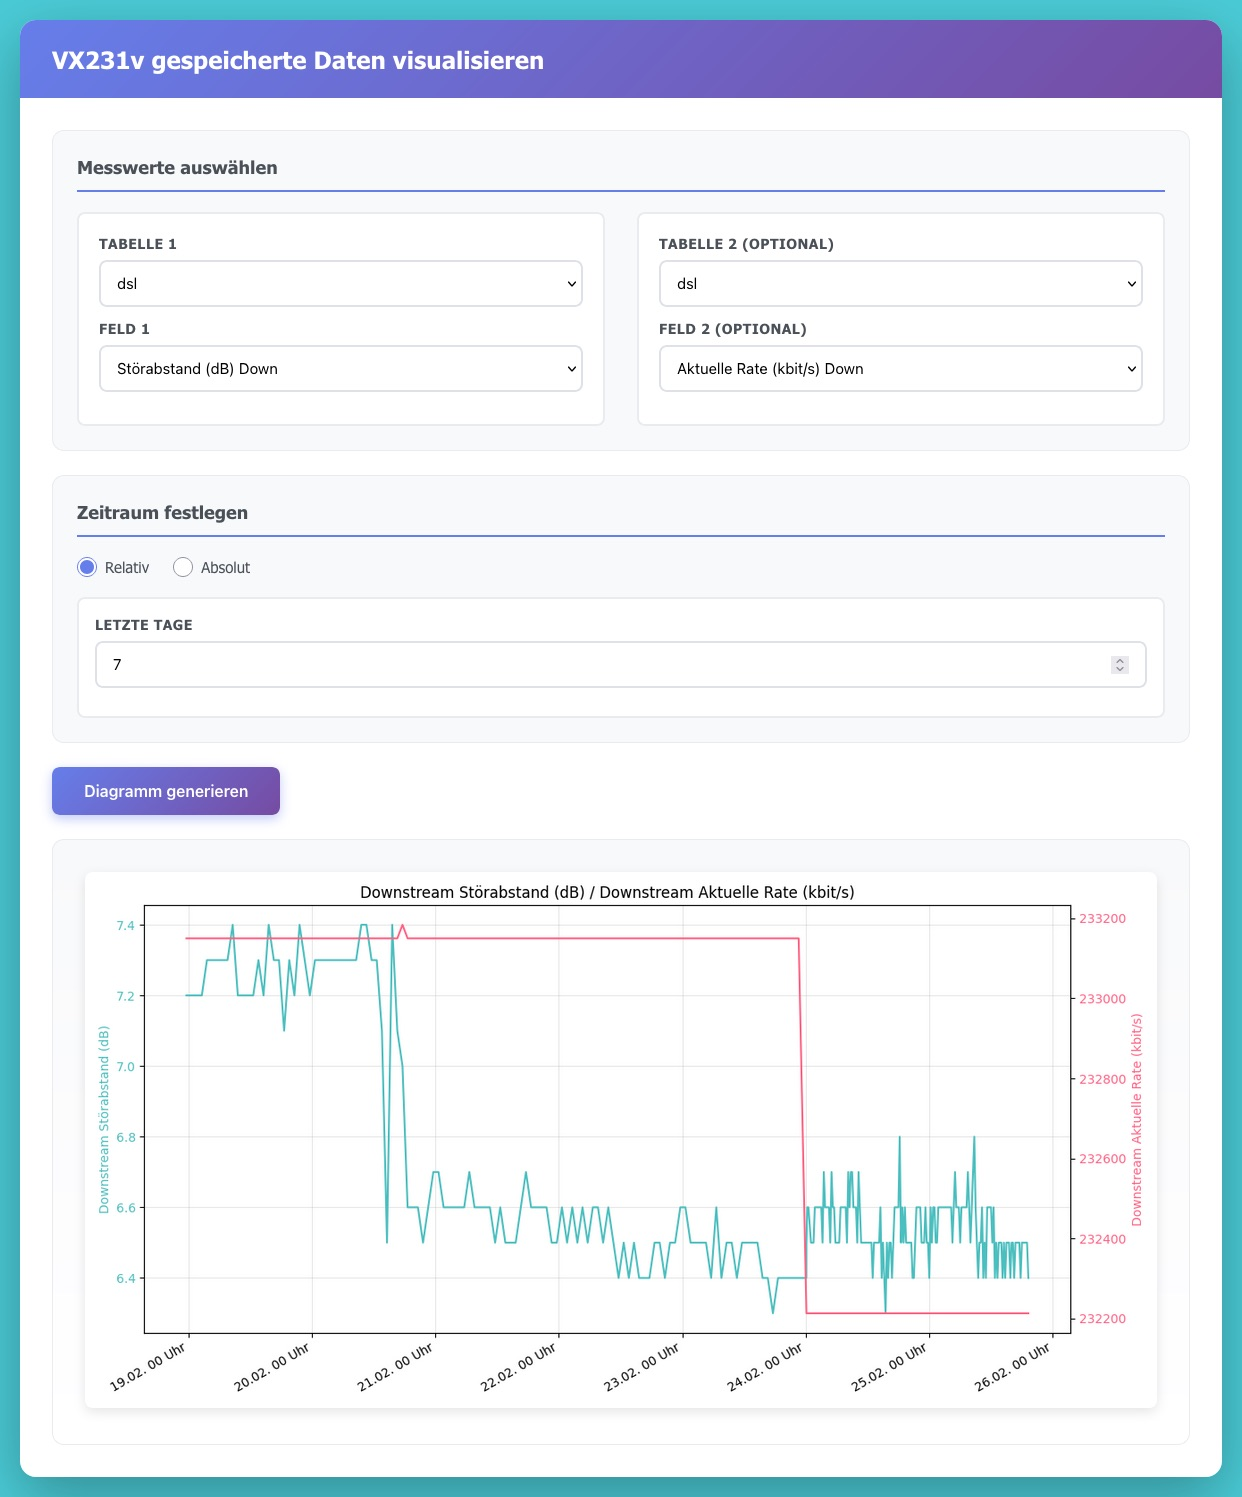
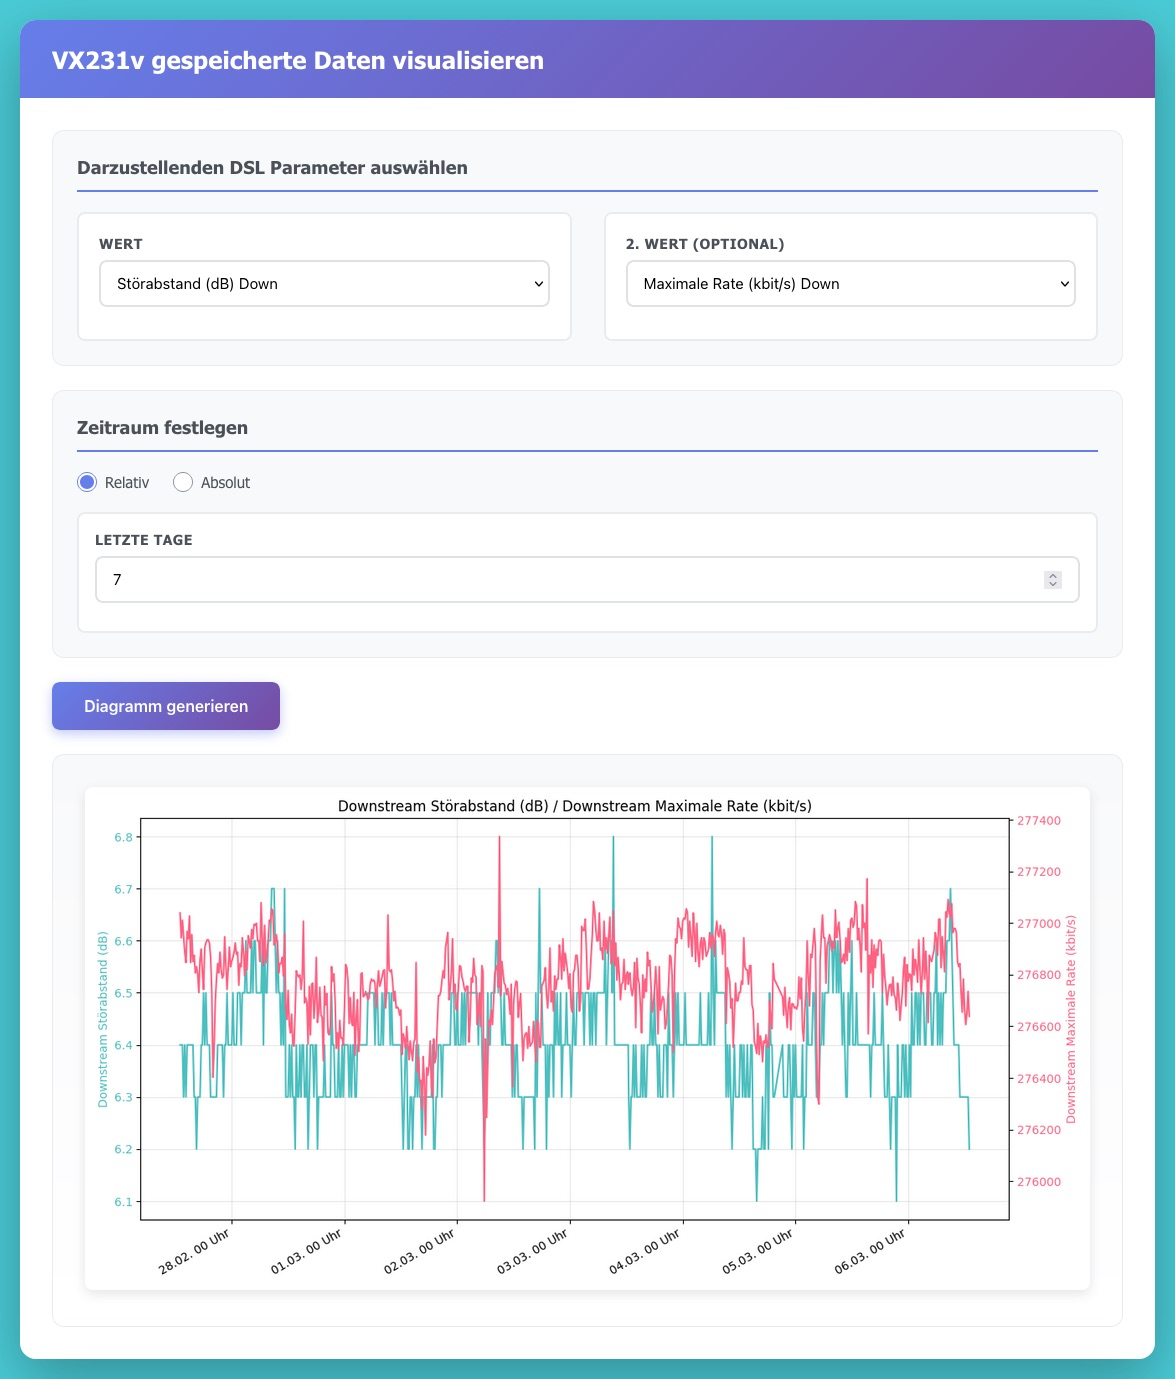
Doku überarbeitet, Texte vereinheitlicht

diff --git a/docs/stylesheets/extra.css b/docs/stylesheets/extra.css
@@ -1,0 +1,7 @@
+:root, [data-md-color-scheme="slate"] {
+  --md-footer-bg-color: var(--md-primary-fg-color);
+  --md-footer-bg-color--dark: var(--md-primary-fg-color--dark);
+  --md-footer-fg-color: var(--md-primary-bg-color);
+  --md-footer-fg-color--light: var(--md-primary-bg-color);
+  --md-footer-fg-color--lighter: var(--md-primary-bg-color);
+}

diff --git a/vx-info.py b/vx-info.py
@@ -28,7 +28,7 @@ def main():
     parser.add_argument('--gui', action='store_true', help='Alle Daten per WebGUI-Scraping holen')
     parser.add_argument('--report-send', action='store_true', help='Statusreport generieren und versenden')
     parser.add_argument('--report-show', action='store_true', help='Statusreport generieren und im Browser anzeigen')
-    parser.add_argument('--dashboard', action='store_true', help='Starte Web-Dashboard')
+    parser.add_argument('--dashboard', action='store_true', help='Starte Browser-Dashboard')
     parser.add_argument('--json-only', action='store_true')
     parser.add_argument('--debug', action='store_true')
     parser.add_argument('--test', action='store_true', help='Technologien und Konfiguration testen')
@@ -158,7 +158,7 @@ def main():
 
         if args.dashboard:
             charter = DataCharter(config, db_path)
-            print("Starte DataCharter Web-Dashboard...")
+            print("Starte DataCharter Browser-Dashboard...")
             charter.run(host='0.0.0.0', port=31311, debug=args.debug)
 
     finally:

diff --git a/core/reporter.py b/core/reporter.py
@@ -752,7 +752,7 @@ class TPLinkVX231vReport:
         events = self._get_events(24, exclude, show_level)
         
         msg_root = MIMEMultipart('mixed')
-        msg_root['Subject'] = f"Ihre tägliche {model_name} Verbindungsübersicht vom {date_str}"
+        msg_root['Subject'] = f"Tägliche {model_name} Verbindungsübersicht vom {date_str}"
         msg_root['From'] = self.config.get('Email', 'sender_email')
         msg_root['To'] = self.config.get('Email', 'recipient_email')
         msg_rel = MIMEMultipart('related')

diff --git a/README.md b/README.md
@@ -3,6 +3,9 @@
 Skripte und Anleitungen für den TP-Link VX231v Router
 
 ---
+> **Hinweis:** Die optisch aufbereitete Version dieser Dokumentation liegt unter:<br>
+> **[https://einstweilen.github.io/tp-link-vx231v/](https://einstweilen.github.io/tp-link-vx231v/)**
+---
 
 ### 1. [Aktivierung Superadmin, Telnet, SNMP und iPerf3](superadmin_telnet_snmp_iperf.md)
 Zusätzliche Funktionen des Router aktivieren und nutzen.
@@ -24,8 +27,8 @@ Zusätzliche Funktionen des Router aktivieren und nutzen.
 
 </details>
 
-[Zur vollständigen Aktivierungsanleitung:](superadmin_telnet_snmp_iperf.md)
-<br>
+[Zur vollständigen Aktivierungsanleitung](superadmin_telnet_snmp_iperf.md)
+
 ---
 
 ### 2. [Router Monitoring: VX-Info Tracker](vx-info.md)
@@ -39,11 +42,11 @@ Ein Set aus Python-Skripten (`vx-info.py`) zur automatisierten Erfassung und Dar
       <br>
       <img src="images/beispiel-statusreport.jpg" alt="Beispiel Statusreport">
   </details>
-* Lokales Web-Dashboard zur Visualisierung
+* Lokales Browser-Dashboard zur Visualisierung
   <details>
       <summary>Beispiel: Dashboard</summary>
       <br>
-      <img src="images/beispiel-dashboard.jpg" alt="Beispiel Web-Dashboard">
+      <img src="images/beispiel-dashboard.jpg" alt="Beispiel Browser-Dashboard">
   </details>
 
 <br>
@@ -82,11 +85,11 @@ Downloading Chromium 123.0.6312.4 (playwright build v1105)...
 Playwright build of Chromium is installed.
 
 [6/11] OPTIONAL: SNMP / TELNET verwenden
-      Falls Sie mit dem superadmin Account Ihres Routers
-      SNMP und Telnet aktiviert haben, können Sie
+      Falls mit dem superadmin Account des Routers
+      SNMP und Telnet aktiviert wurden, können
       Routerdaten auch per SNMP abrufen.
-      Dafür benötigen Sie 'snmpget' und 'snmpwalk'.
-      Möchten Sie SNMP-Tools jetzt installieren? (j/N) j
+      Dafür werden 'snmpget' und 'snmpwalk' benötigt.
+      Sollen SNMP-Tools jetzt installiert werden? (j/N) j
       Installiere net-snmp via Homebrew (macOS)...
       🍺  net-snmp wurde erfolgreich installiert!
 
@@ -94,14 +97,14 @@ Playwright build of Chromium is installed.
       Die Routerdatenanalyse wird über einen Apple Kurzbefehl 'ai-cloud' ausgeführt.
       Dieser Kurzbefehl muss manuell in der Kurzbefehle-App angelegt werden,
       wie in der Dokumentation beschrieben.
-      Haben Sie den Kurzbefehl 'ai-cloud' bereits angelegt oder möchten Sie dies später tun? [Enter]
+      Wurde der Kurzbefehl 'ai-cloud' bereits angelegt oder soll dies später erfolgen? [Enter]
 
 [8/11] Überprüfe Konfigurationsdatei...
       -> config.ini wurde aus der Vorlage (config.ini.sample) erstellt.
 
 [9/11] Konfigurationsdatei anpassen
-      Bitte passen Sie nun die Zugangsdaten in der config.ini an.
-      Drücken Sie [Enter], um die Datei im Editor zu öffnen...
+      Bitte nun die Zugangsdaten in der config.ini anpassen.
+      [Enter] drücken, um die Datei im Editor zu öffnen...
 
 [10/11] Teste das Skript...
 
@@ -117,15 +120,15 @@ eMail Konfiguration
 ==== Installation abgeschlossen! ====
 
 [11/11] Skript in Cronjob eintragen
-Vorschlag für Ihre crontab:
+Vorschlag für die crontab:
 
 Einmal stündlich: Systemstatus, Clients, DSL-Werte, Log sichern
 0 * * * * cd /Users/user/tp-link-vx231v && /Users/user/tp-link-vx231v/.venv/bin/python3 vx-info.py --update --log
 Täglich um 06:10 Uhr: Statusreport generieren und per E-Mail versenden
 10 6 * * * cd /Users/user/tp-link-vx231v && /Users/user/tp-link-vx231v/.venv/bin/python3 vx-info.py --report-send
 
-Möchten Sie jetzt 'crontab -e' öffnen? (j/N) n
-Übersprungen. Sie können die Crontab später jederzeit mit 'crontab -e' bearbeiten.
+Soll jetzt 'crontab -e' geöffnet werden? (j/N) n
+Übersprungen. Die Crontab kann später jederzeit mit 'crontab -e' bearbeitet werden.
 
 Fertig!
 ```

diff --git a/vx-info.md b/vx-info.md
@@ -45,13 +45,13 @@ Der Bericht kann im Browser geöffnet oder zeitgesteuert als eMail versendet wer
       <img src="images/beispiel-statusreport.jpg" alt="Beispiel Statusreport">
   </details>
 
-### 4. Lokales Web-Dashboard
+### 4. Lokales Browser-Dashboard
 Für den schnellen Überblick der aufgezeichneten Daten können diese als interaktive Diagramme dargestellt werden. Der Zugriff erfolgt über ein lokales Web-Interface, in dem die anzuzeigen Daten und der Zeitraum ausgewählt werden können.
 
   <details>
-      <summary>Beispiel: Web-Dashboard</summary>
+      <summary>Beispiel: Browser-Dashboard</summary>
       <br>
-      <img src="images/beispiel-dashboard.jpg" alt="Beispiel Web-Dashboard">
+      <img src="images/beispiel-dashboard.jpg" alt="Beispiel Browser-Dashboard">
   </details>
 
 ### 5. Lokale Datenspeicherung
@@ -59,7 +59,7 @@ Sämtliche ausgelesenen Werte und Logs werden in eine SQLite-Datenbank geschrieb
 Standardmäßig werden DHCP und MESH Einträge nach drei Tagen aus der DB gelöscht; in der `config.ini` (unter `[Events]`) kann die Anzahl der Tage konfiguriert werden
 
 ### 6. Lokalisierung und eigene Feldbeschriftungen
-Die Datenbank `router_lang.db` dient als Übersetzungsmatrix. Sie wandelt technische Spaltennamen (z. B. `downstream_curr_rate`) für das Web-Dashboard und den HTML-Bericht in menschenlesbare Bezeichner (z. B. "Aktuelle Download-Rate") um.<br>
+Die Datenbank `router_lang.db` dient als Übersetzungsmatrix. Sie wandelt technische Spaltennamen (z. B. `downstream_curr_rate`) für das Browser-Dashboard und den HTML-Bericht in menschenlesbare Bezeichner (z. B. "Aktuelle Download-Rate") um.<br>
 Eigene Übersetzungen können direkt in der router_lang.db oder auch  im Quellcode des beiliegenden Hilfsskripts `lang_editor.py` (innerhalb der Liste `translations`) angepasst und erweitert werden. Ein anschließendes Ausführen des Skripts generiert die Übersetzungsdatenbank neu.
 
 ## Einrichtung und Konfiguration
@@ -108,7 +108,7 @@ Für detaillierte Informationen zu Einrichtung, Konfiguration und Nutzung lesen 
     Anpassung der `config.ini`, Testläufe, Ausführungsoptionen (CLI) und Einrichtung von Cronjobs.
 *   [**Report**](docs/report.md)
     Details zur Berichtgenerierung und dem Versand per E-Mail.
-*   [**Web-Dashboard**](docs/dashboard.md)
+*   [**Browser-Dashboard**](docs/dashboard.md)
     Hinweise zur Nutzung des lokalen Dashboards und der Diagramme.
 *   [**Lokalisierung**](docs/lokalisierung.md)
     Anleitung zur Übersetzung und Anpassung der Feldbeschriftungen über die `router_lang.db`.

diff --git a/docs/setup.md b/docs/setup.md
@@ -35,11 +35,11 @@ Downloading Chromium 123.0.6312.4 (playwright build v1105)...
 Playwright build of Chromium is installed.
 
 [6/11] OPTIONAL: SNMP / TELNET verwenden
-      Falls Sie mit dem superadmin Account Ihres Routers
-      SNMP und Telnet aktiviert haben, können Sie
+      Falls mit dem superadmin Account des Routers
+      SNMP und Telnet aktiviert wurden, können
       Routerdaten auch per SNMP abrufen.
-      Dafür benötigen Sie 'snmpget' und 'snmpwalk'.
-      Möchten Sie SNMP-Tools jetzt installieren? (j/N) j
+      Dafür werden 'snmpget' und 'snmpwalk' benötigt.
+      Sollen SNMP-Tools jetzt installiert werden? (j/N) j
       Installiere net-snmp via Homebrew (macOS)...
       🍺  net-snmp wurde erfolgreich installiert!
 
@@ -47,14 +47,14 @@ Playwright build of Chromium is installed.
       Die Routerdatenanalyse wird über einen Apple Kurzbefehl 'ai-cloud' ausgeführt.
       Dieser Kurzbefehl muss manuell in der Kurzbefehle-App angelegt werden,
       wie in der Dokumentation beschrieben.
-      Haben Sie den Kurzbefehl 'ai-cloud' bereits angelegt oder möchten Sie dies später tun? [Enter]
+      Wurde der Kurzbefehl 'ai-cloud' bereits angelegt oder soll dies später erfolgen? [Enter]
 
 [8/11] Überprüfe Konfigurationsdatei...
       -> config.ini wurde aus der Vorlage (config.ini.sample) erstellt.
 
 [9/11] Konfigurationsdatei anpassen
-      Bitte passen Sie nun die Zugangsdaten in der config.ini an.
-      Drücken Sie [Enter], um die Datei im Editor zu öffnen...
+      Bitte nun die Zugangsdaten in der config.ini anpassen.
+      [Enter] drücken, um die Datei im Editor zu öffnen...
 
 [10/11] Teste das Skript...
 
@@ -70,14 +70,14 @@ eMail Konfiguration
 ==== Installation abgeschlossen! ====
 
 [11/11] Skript in Cronjob eintragen
-Vorschlag für Ihre crontab:
+Vorschlag für die crontab:
 Einmal stündlich: Systemstatus, Clients, DSL-Werte, Log sichern
 0 * * * * cd /Users/user/tp-link-vx231v && /Users/user/tp-link-vx231v/.venv/bin/python3 vx-info.py --update --log
 Täglich um 06:10 Uhr: Statusreport generieren und per E-Mail versenden
 10 6 * * * cd /Users/user/tp-link-vx231v && /Users/user/tp-link-vx231v/.venv/bin/python3 vx-info.py --report-send
 
-Möchten Sie jetzt 'crontab -e' öffnen? (j/N) n
-Übersprungen. Sie können die Crontab später jederzeit mit 'crontab -e' bearbeiten.
+Soll jetzt 'crontab -e' geöffnet werden? (j/N) n
+Übersprungen. Die Crontab kann später jederzeit mit 'crontab -e' bearbeitet werden.
 
 Fertig!
 ```

diff --git a/docs/index.md b/docs/index.md
@@ -7,12 +7,18 @@ Da der TP-Link VX231v keine offizielle API für diese Zwecke bereitstellt, autom
 Ist auf dem Router der superadmin-Zugang aktiviert ([Zur Anleitung](https://github.com/einstweilen/tp-link-vx231v/blob/main/superadmin_telnet_snmp_iperf.md)) können die Leitungswerte per Telnet und SNMP in Sekunden erfasst werden.<br>
 Für Daten, die darüber nicht zugänglich sind oder falls der superadmin-Zugang nicht aktiviert ist, erfolgt ein automatisiertes Auslesen der Daten aus der Weboberfläche des Router, was allerdings deutlich länger dauert.
 
+??? info "Beispiel für einen Statusreport"
+    ![Beispiel Statusreport](images/beispiel-statusreport.jpg)
+
+??? info "Beispiel für das Browser-Dashboard"
+    ![Beispiel Browser-Dashboard](images/beispiel-dashboard.jpg)
+
 ## Funktionsumfang
 
 *   **Datenerfassung:** Automatisierter Abruf von Systemzuständen, DSL-Werten und Client-Listen primär per Telnet und SNMP. Für Daten, die darüber nicht zugänglich sind, erfolgt ein Auslesen der Weboberfläche des Routers.
 *   **Datenspeicherung:** Alle erfassten Messwerte, verbundenen Geräte und System-Logs werden fortlaufend in einer SQLite-Datenbank gespeichert.
 *   **Reporting:** Die gesammelten Daten der letzten 24 Stunden können als HTML-Statusbericht aufbereitet werden. Der Bericht enthält unter anderem aktuelle Verbindungsparameter, Auszüge aus dem Event-Log und ein Anwesenheitsdiagramm der Clients. Der Versand kann automatisiert per E-Mail erfolgen.
-*   **Lokales Web-Dashboard:** Ein integrierter lokaler Webserver ermöglicht die interaktive grafische Visualisierung der historisierten DSL-Parameter über frei wählbare Zeiträume.
+*   **Lokales Browser-Dashboard:** Ein integrierter lokaler Webserver ermöglicht die interaktive grafische Visualisierung der historisierten DSL-Parameter über frei wählbare Zeiträume.
 
 ## Dokumentationsübersicht
 

diff --git a/docs/lokalisierung.md b/docs/lokalisierung.md
@@ -1,4 +1,4 @@
 # Lokalisierung und eigene Feldbeschriftungen
 
-Die Datenbank `router_lang.db` dient als Übersetzungsmatrix. Sie wandelt technische Spaltennamen (z. B. `downstream_curr_rate`) für das Web-Dashboard und den HTML-Bericht in menschenlesbare Bezeichner (z. B. "Aktuelle Download-Rate") um.<br>
+Die Datenbank `router_lang.db` dient als Übersetzungsmatrix. Sie wandelt technische Spaltennamen (z. B. `downstream_curr_rate`) für das Browser-Dashboard und den HTML-Bericht in menschenlesbare Bezeichner (z. B. "Aktuelle Download-Rate") um.<br>
 Eigene Übersetzungen können direkt in der router_lang.db oder auch  im Quellcode des beiliegenden Hilfsskripts `lang_editor.py` (innerhalb der Liste `translations`) angepasst und erweitert werden. Ein anschließendes Ausführen des Skripts generiert die Übersetzungsdatenbank neu.

diff --git a/docs/config-details.md b/docs/config-details.md
@@ -38,7 +38,7 @@ Optionale Zugangsparameter für SNMP (Simple Network Management Protocol).
 
 Login-Daten für das reguläre TP-Link Web-Interface.
 
-*   `username` / `password`: Die ganz normalen Zugangsdaten, mit denen Sie sich auch im Vorbeigehen im Router einloggen.
+*   `username` / `password`: Die ganz normalen Zugangsdaten, mit denen auch der Login im Router im Browser erfolgt.
     *   **Nutzung:** Das Skript nutzt via `Playwright` einen headless Browser, um damit das vollständige Eventlog des Routers (`--log`) herunterzuladen und Client-Hostnames auszulesen.<br>Ohne Telnet/SNMP fallen auch die standardmäßigen DSL-Abfragen (`--update`) automatisch auf diesen (langsameren) Vorgang zurück.
 
 ## [Email]

diff --git a/docs/dashboard.md b/docs/dashboard.md
@@ -1,10 +1,10 @@
-# Lokales Web-Dashboard
+# Lokales Browser-Dashboard
 
 Für den schnellen Überblick der aufgezeichneten Daten können diese als interaktive Diagramme dargestellt werden. Der Zugriff erfolgt über ein lokales Web-Interface, in dem die anzuzeigen Daten und der Zeitraum ausgewählt werden können.
 
 <details markdown="1">
-<summary>Beispiel: Web-Dashboard</summary>
+<summary>Beispiel: Browser-Dashboard</summary>
 
-![Beispiel Web-Dashboard](images/beispiel-dashboard.jpg)
+![Beispiel Browser-Dashboard](images/beispiel-dashboard.jpg)
 
 </details>
